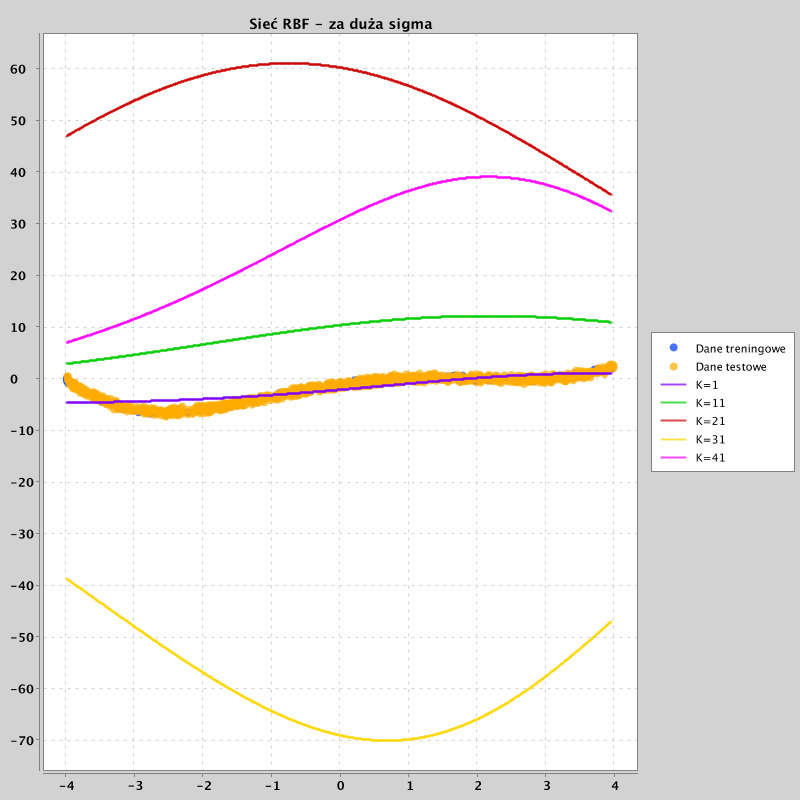
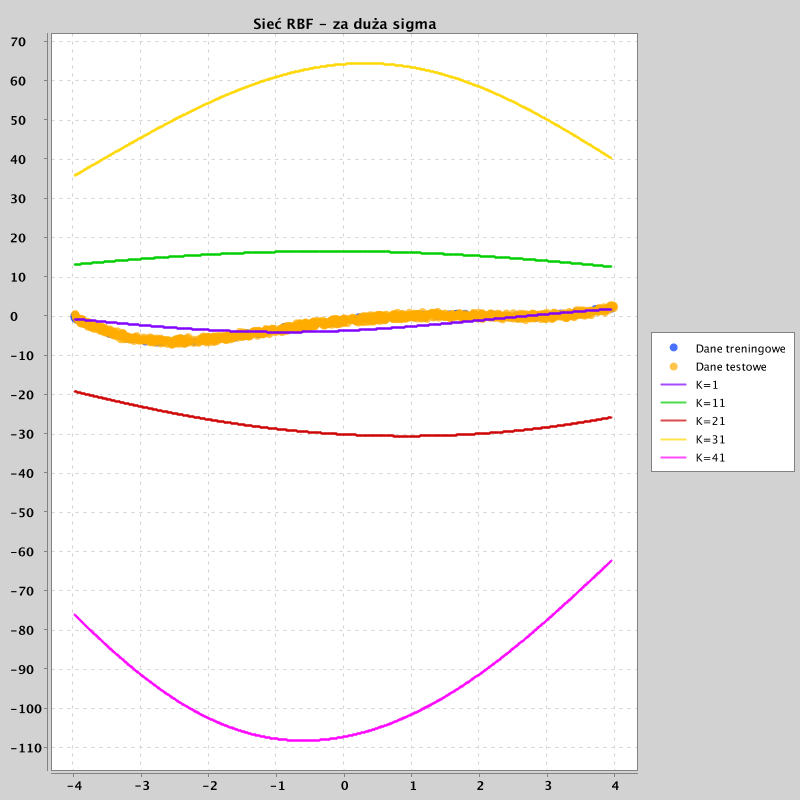
Remove error limit

diff --git a/src/main/kotlin/tasks/Approximation3/Approximation3.kt b/src/main/kotlin/tasks/Approximation3/Approximation3.kt
@@ -40,13 +40,15 @@ abstract class Approximation3 {
 
 
 
-        val trening = chart.addSeries("Dane treningowe", trainingData.input().project(0), trainingData.output().project(0))
-        trening.lineStyle = SeriesLines.NONE
-        trening.marker = SeriesMarkers.CIRCLE
+
 
         val test = chart.addSeries("Dane testowe", testData.input().project(0), testData.output().project(0))
         test.lineStyle = SeriesLines.NONE
         test.marker = SeriesMarkers.CIRCLE
+
+        val trening = chart.addSeries("Dane treningowe", trainingData.input().project(0), trainingData.output().project(0))
+        trening.lineStyle = SeriesLines.NONE
+        trening.marker = SeriesMarkers.CIRCLE
 
         networkOutputs.forEach { (network, outputs) ->
             val series = chart.addSeries("K=${network.numRadialNeurons}", arguments, outputs.project(0))

diff --git a/src/main/kotlin/network/Network.kt b/src/main/kotlin/network/Network.kt
@@ -66,20 +66,13 @@ class Network(val numRadialNeurons : Int, var alpha : Double) {
             i += 1
             val currentError = error()
             onIteration?.invoke(i, currentError)
-            if (currentError > 30.0) {
-                break
-            }
         } while (currentError > error)
     }
 
     fun train(iters: Int,  onIteration : ((i : Int, error: Double) -> Unit)? = null) {
         for (i in 1..iters) {
             step()
-            val error = error()
-            onIteration?.invoke(i, error)
-            if (error > 30.0) {
-                break
-            }
+            onIteration?.invoke(i, error())
         }
     }
 

diff --git a/src/main/kotlin/tasks/Approximation3/DifferentNeuronNumber1.kt b/src/main/kotlin/tasks/Approximation3/DifferentNeuronNumber1.kt
@@ -49,13 +49,15 @@ class DifferentNeuronNumber1 : Approximation3() {
 
 fun main() {
     val dnn = DifferentNeuronNumber1()
-    //dnn.chartOptimalSigma()
 
-    val second = GlobalScope.async { dnn.chartSmallSigma() }
-    val third = GlobalScope.async { dnn.chartBigSigma() }
+
+    val first = GlobalScope.async { dnn.chartOptimalSigma() }
+    //val second = GlobalScope.async { dnn.chartSmallSigma() }
+    //val third = GlobalScope.async { dnn.chartBigSigma() }
 
     runBlocking {
-        second.await()
-        third.await()
+        first.await()
+       // second.await()
+       // third.await()
     }
 }
